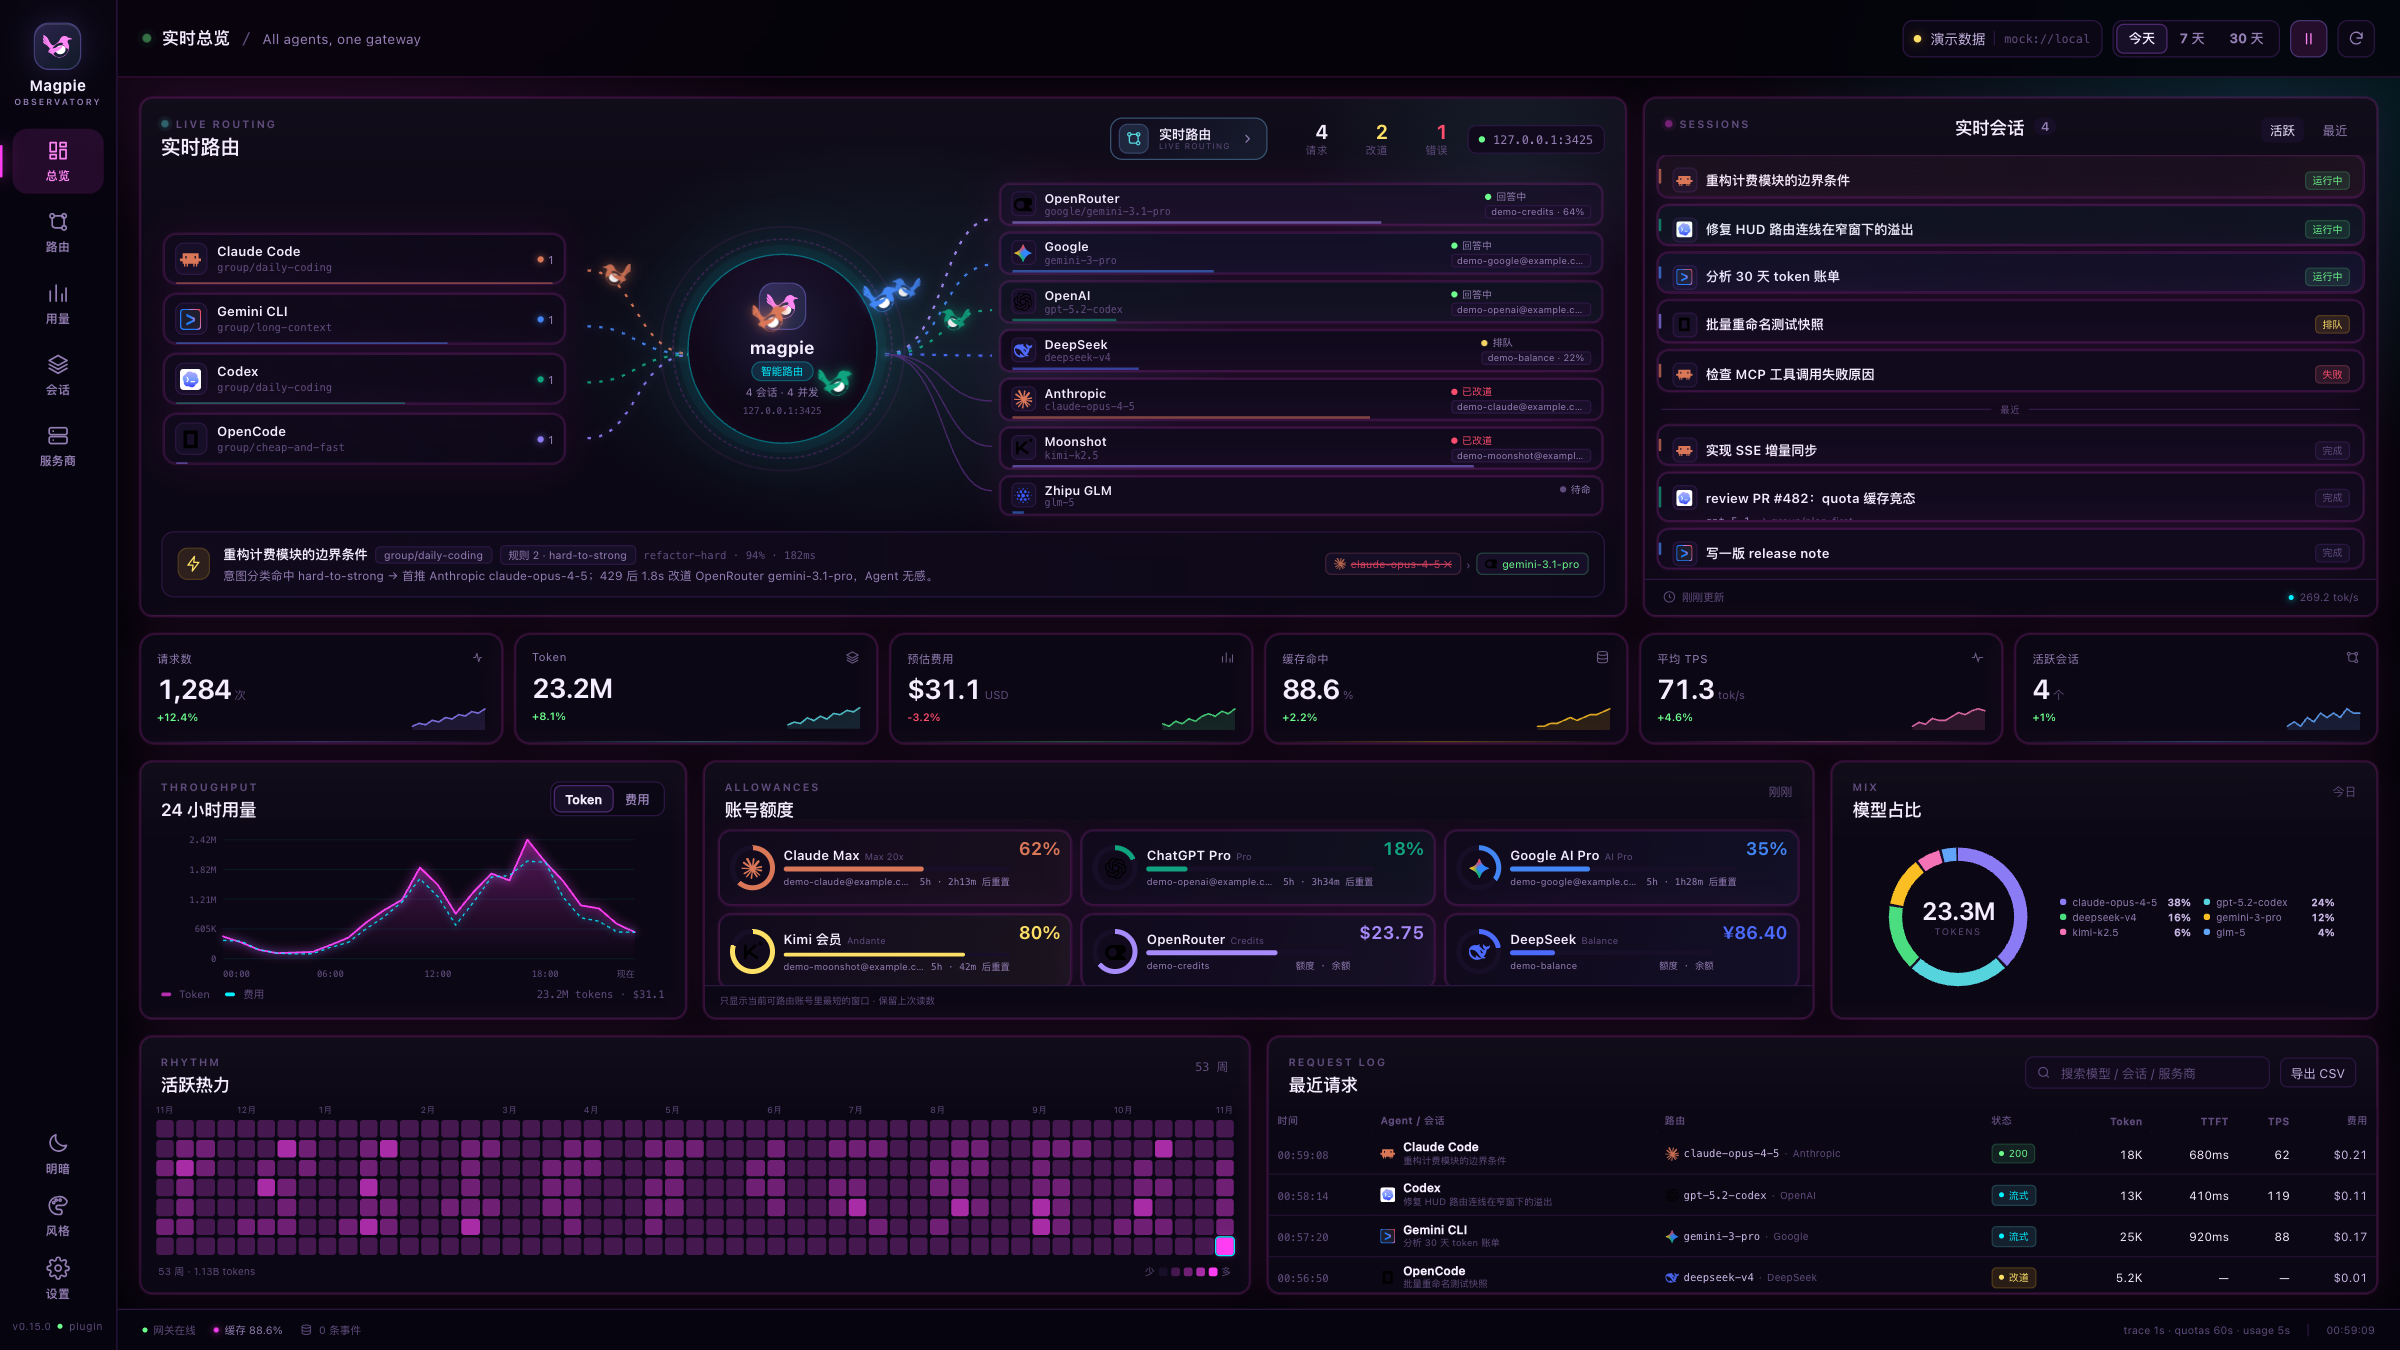
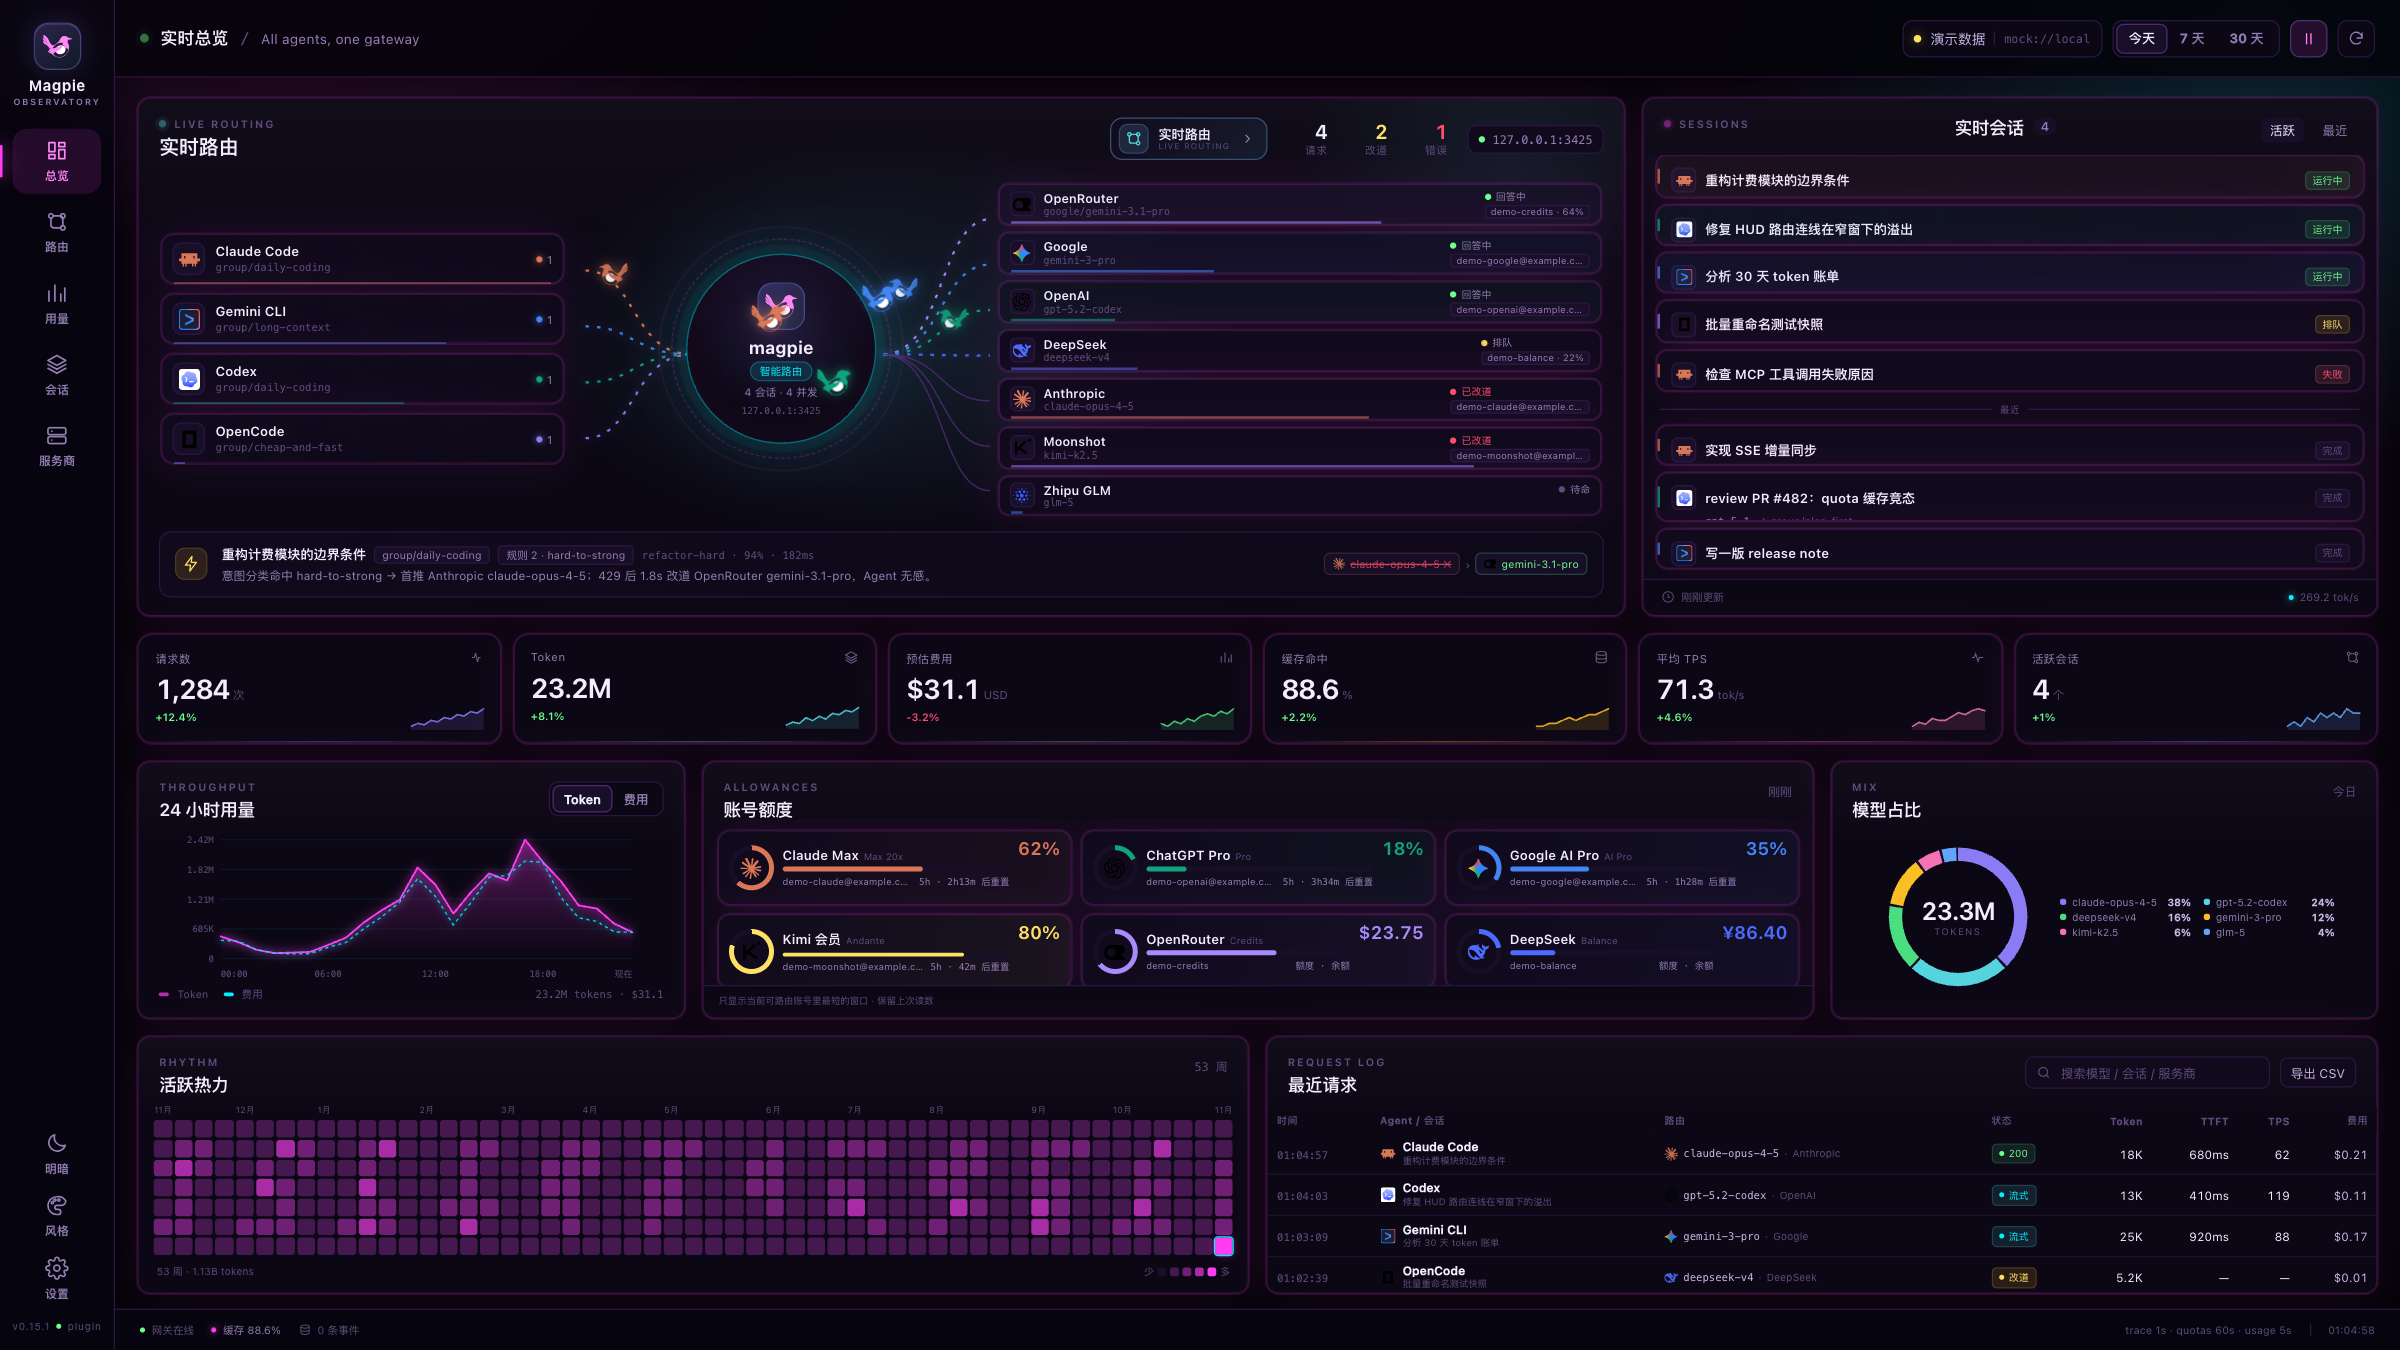
release: Magpie Observatory v0.15.1

diff --git a/public/assets/data.js b/public/assets/data.js
@@ -574,15 +574,23 @@
         provider,
         name: x.name || providerMeta(provider).name,
         user: x.user || "",
-        lines: (x.lines || []).map(l => ({
-          name: l.name || "额度",
-          points: (l.points || []).filter(p => p && p.at && isFinite(Number(p.left))).slice(-200).map(p => ({
-            at: p.at,
-            left: Math.max(0, Math.min(100, Number(p.left))),
-            start: p.start || null,
-            resetsAt: p.resetsAt || null
-          }))
-        })).filter(l => l.points.length >= 2)
+        lines: (x.lines || []).map(l => {
+          const raw = (l.points || []).filter(p => p && p.at && isFinite(Number(p.left))).slice(-200);
+          // The snapshot omits `start`/`resetsAt` when they repeat; restore
+          // them so window math sees the same stamps the gateway sent.
+          let lastStart = null, lastReset = null;
+          const points = raw.map(p => {
+            lastStart = p.start === undefined ? lastStart : p.start;
+            lastReset = p.resetsAt === undefined ? lastReset : p.resetsAt;
+            return {
+              at: p.at,
+              left: Math.max(0, Math.min(100, Number(p.left))),
+              start: lastStart,
+              resetsAt: lastReset
+            };
+          });
+          return { name: l.name || "额度", points };
+        }).filter(l => l.points.length >= 2)
       };
     }).filter(x => x.lines.length);
 

diff --git a/public/index.html b/public/index.html
@@ -71,7 +71,7 @@
       <button class="nav-item" id="theme-toggle" title="明暗模式"><svg class="icon-moon"><use href="#i-moon"/></svg><svg class="icon-sun"><use href="#i-sun"/></svg><span>明暗</span></button>
       <button class="nav-item" id="style-toggle" title="界面风格"><svg><use href="#i-palette"/></svg><span>风格</span></button>
       <button class="nav-item" id="settings-toggle" title="布局与动效"><svg><use href="#i-settings"/></svg><span>设置</span></button>
-      <div class="rail-version">v0.15.0 <i></i> plugin</div>
+      <div class="rail-version">v0.15.1 <i></i> plugin</div>
     </div>
   </aside>
 

diff --git a/public/assets/app.js b/public/assets/app.js
@@ -2142,7 +2142,7 @@
 
   /* ------------------------------------------------------------------ init --- */
   function init() {
-    try { console.info("%c Magpie Observatory v0.15.0 · twenty-one views · 4 styles · layout settings", "color:#8b7cf6;font-weight:bold"); } catch (_) {}
+    try { console.info("%c Magpie Observatory v0.15.1 · twenty-one views · 4 styles · layout settings", "color:#8b7cf6;font-weight:bold"); } catch (_) {}
     try {
       const hostTheme = new URLSearchParams(location.search).get("hostTheme");
       if (hostTheme === "light" || hostTheme === "dark") {

diff --git a/docs/publishing.md b/docs/publishing.md
@@ -94,7 +94,7 @@ The script:
 2. initializes `main` if needed, commits the working tree;
 3. creates the public repository if it does not exist, otherwise pushes;
 4. adds all store topics with `gh repo edit --add-topic`;
-5. creates the annotated tag `v0.15.0` and pushes it.
+5. creates the annotated tag `v0.15.1` and pushes it.
 
 Manual equivalent:
 
@@ -103,7 +103,7 @@ git init -b main
 git config user.name "JohnWangggg"
 git config user.email "JohnWangggg@users.noreply.github.com"
 git add -A
-git commit -m "release: Magpie Observatory v0.15.0"
+git commit -m "release: Magpie Observatory v0.15.1"
 gh repo create JohnWangggg/magpie-observatory --public --source=. --remote=origin --push
 gh api --method PUT repos/JohnWangggg/magpie-observatory/topics \
   -f 'names[]=magpie-plugin' \
@@ -113,7 +113,7 @@ gh api --method PUT repos/JohnWangggg/magpie-observatory/topics \
   -f 'names[]=dashboard' \
   -f 'names[]=monitoring' \
   -f 'names[]=llm-gateway'
-git tag -a v0.15.0 -m "Magpie Observatory v0.15.0"
+git tag -a v0.15.1 -m "Magpie Observatory v0.15.1"
 git push -u origin main --tags
 ```
 
@@ -138,12 +138,12 @@ under **Plugins → Installed** with an **Observatory** tab.
 Release tags are annotated and match `package.json`:
 
 ```bash
-git tag -a v0.15.0 -m "Magpie Observatory v0.15.0"
-git push origin v0.15.0
+git tag -a v0.15.1 -m "Magpie Observatory v0.15.1"
+git push origin v0.15.1
 ```
 
 For the next release, bump `package.json`, update the tag in
-`scripts/publish-github.sh` (or pass `TAG=v0.15.0`), and repeat.
+`scripts/publish-github.sh` (or pass `TAG=v0.15.1`), and repeat.
 
 发布标签使用 annotated tag，并与 `package.json` 版本一致。下一次发布时提升版本号，
-再用 `TAG=v0.15.0 bash scripts/publish-github.sh` 或手动打标签。
+再用 `TAG=v0.15.1 bash scripts/publish-github.sh` 或手动打标签。
